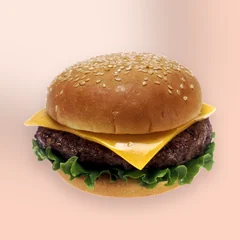
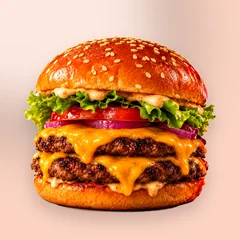
Categoria Hambúrguer com a ilustração 3D aprovada pelo Pedro
Recorte da imagem gerada pelo Pedro (fundo e sombra removidos), composta pelo build-category-images.py no mesmo
círculo/tom/sombra das outras categorias. Crédito atualizado no rodapé.

Claude-Session: https://claude.ai/code/session_01S7mCyHDiPhsMCxKr9QvAB6

diff --git a/index.html b/index.html
@@ -328,7 +328,7 @@ body.city-modal-open{overflow:hidden;touch-action:none}.city-backdrop{z-index:94
 </template>
 <template id="creditsTemplate">
   <div class="legal-content">
-    <section><h3>Categorias da página inicial</h3><p>As imagens das categorias são fotos com licença livre do Wikimedia Commons. Recortamos o fundo e compusemos cada prato sobre um círculo nas cores do PedeAi. As fotos dos estabelecimentos são dos próprios parceiros.</p><ul><li><b>Pizza</b>: “All Good pizza (38501728345)”, de Dale Cruse from San Francisco, CA, USA. Licença CC BY 2.0. <a href="https://commons.wikimedia.org/wiki/File:All_Good_pizza_(38501728345).jpg" target="_blank" rel="noopener">Ver original</a>.</li><li><b>Hambúrguer</b>: “Cheeseburger”, de Renee Comet (photographer). Licença Public domain. <a href="https://commons.wikimedia.org/wiki/File:Cheeseburger.jpg" target="_blank" rel="noopener">Ver original</a>.</li><li><b>Brasileira</b>: “Feijoada à brasileira -02”, de Bradleyzm. Licença CC BY-SA 4.0. <a href="https://commons.wikimedia.org/wiki/File:Feijoada_%C3%A0_brasileira_-02.jpg" target="_blank" rel="noopener">Ver original</a>.</li><li><b>Churrasco</b>: “Steak served with sauce greens and garnishes on a dark plate”, de Shixart1985. Licença CC BY 2.0. <a href="https://commons.wikimedia.org/wiki/File:Steak_served_with_sauce_greens_and_garnishes_on_a_dark_plate.jpg" target="_blank" rel="noopener">Ver original</a>.</li><li><b>Doces</b>: “Slice of chocolate cloud cake at Tous les Jours”, de Ser Amantio di Nicolao. Licença CC0. <a href="https://commons.wikimedia.org/wiki/File:Slice_of_chocolate_cloud_cake_at_Tous_les_Jours.jpg" target="_blank" rel="noopener">Ver original</a>.</li><li><b>Café</b>: “A cup of cappuccino”, de Vee Satayamas. Licença CC BY 4.0. <a href="https://commons.wikimedia.org/wiki/File:A_cup_of_cappuccino.jpg" target="_blank" rel="noopener">Ver original</a>.</li><li><b>Açaí</b>: “Açaí na tigela - Acai bowl”, de Joe Crawford from San Diego, California, USA. Licença CC BY 2.0. <a href="https://commons.wikimedia.org/wiki/File:A%C3%A7a%C3%AD_na_tigela_-_Acai_bowl.jpg" target="_blank" rel="noopener">Ver original</a>.</li><li><b>Sushi</b>: “Sushi platter”, de chidorian from Japan. Licença CC BY-SA 2.0. <a href="https://commons.wikimedia.org/wiki/File:Sushi_platter.jpg" target="_blank" rel="noopener">Ver original</a>.</li><li><b>Pastel</b>: “Pastel isi sayur daging”, de Midori. Licença CC BY 3.0. <a href="https://commons.wikimedia.org/wiki/File:Pastel_isi_sayur_daging.JPG" target="_blank" rel="noopener">Ver original</a>.</li></ul></section>
+    <section><h3>Categorias da página inicial</h3><p>As imagens das categorias são fotos com licença livre do Wikimedia Commons. Recortamos o fundo e compusemos cada prato sobre um círculo nas cores do PedeAi. As fotos dos estabelecimentos são dos próprios parceiros.</p><ul><li><b>Pizza</b>: “All Good pizza (38501728345)”, de Dale Cruse from San Francisco, CA, USA. Licença CC BY 2.0. <a href="https://commons.wikimedia.org/wiki/File:All_Good_pizza_(38501728345).jpg" target="_blank" rel="noopener">Ver original</a>.</li><li><b>Hambúrguer</b>: ilustração 3D criada para o PedeAi.</li><li><b>Brasileira</b>: “Feijoada à brasileira -02”, de Bradleyzm. Licença CC BY-SA 4.0. <a href="https://commons.wikimedia.org/wiki/File:Feijoada_%C3%A0_brasileira_-02.jpg" target="_blank" rel="noopener">Ver original</a>.</li><li><b>Churrasco</b>: “Steak served with sauce greens and garnishes on a dark plate”, de Shixart1985. Licença CC BY 2.0. <a href="https://commons.wikimedia.org/wiki/File:Steak_served_with_sauce_greens_and_garnishes_on_a_dark_plate.jpg" target="_blank" rel="noopener">Ver original</a>.</li><li><b>Doces</b>: “Slice of chocolate cloud cake at Tous les Jours”, de Ser Amantio di Nicolao. Licença CC0. <a href="https://commons.wikimedia.org/wiki/File:Slice_of_chocolate_cloud_cake_at_Tous_les_Jours.jpg" target="_blank" rel="noopener">Ver original</a>.</li><li><b>Café</b>: “A cup of cappuccino”, de Vee Satayamas. Licença CC BY 4.0. <a href="https://commons.wikimedia.org/wiki/File:A_cup_of_cappuccino.jpg" target="_blank" rel="noopener">Ver original</a>.</li><li><b>Açaí</b>: “Açaí na tigela - Acai bowl”, de Joe Crawford from San Diego, California, USA. Licença CC BY 2.0. <a href="https://commons.wikimedia.org/wiki/File:A%C3%A7a%C3%AD_na_tigela_-_Acai_bowl.jpg" target="_blank" rel="noopener">Ver original</a>.</li><li><b>Sushi</b>: “Sushi platter”, de chidorian from Japan. Licença CC BY-SA 2.0. <a href="https://commons.wikimedia.org/wiki/File:Sushi_platter.jpg" target="_blank" rel="noopener">Ver original</a>.</li><li><b>Pastel</b>: “Pastel isi sayur daging”, de Midori. Licença CC BY 3.0. <a href="https://commons.wikimedia.org/wiki/File:Pastel_isi_sayur_daging.JPG" target="_blank" rel="noopener">Ver original</a>.</li></ul></section>
   </div>
 </template>
 <nav class="bottom-nav" aria-label="Navegação principal"><button class="nav-item active" data-nav="home"><svg class="icon" viewBox="0 0 24 24"><path d="m3 11 9-8 9 8v9H3v-9Z"/><path d="M9 20v-6h6v6"/></svg>Início</button><button class="nav-item" data-nav="search"><svg class="icon" viewBox="0 0 24 24"><circle cx="11" cy="11" r="7"/><path d="m16 16 4 4"/></svg>Buscar</button><button class="nav-item" data-nav="categories"><svg class="icon" viewBox="0 0 24 24"><rect x="3" y="3" width="7" height="7" rx="2"/><rect x="14" y="3" width="7" height="7" rx="2"/><rect x="3" y="14" width="7" height="7" rx="2"/><rect x="14" y="14" width="7" height="7" rx="2"/></svg>Categorias</button><button class="nav-item" data-nav="partner"><svg class="icon" viewBox="0 0 24 24"><path d="M4 10h16l-1-6H5l-1 6Z"/><path d="M5 10v10h14V10M9 20v-6h6v6"/></svg>Parceiros</button></nav>
